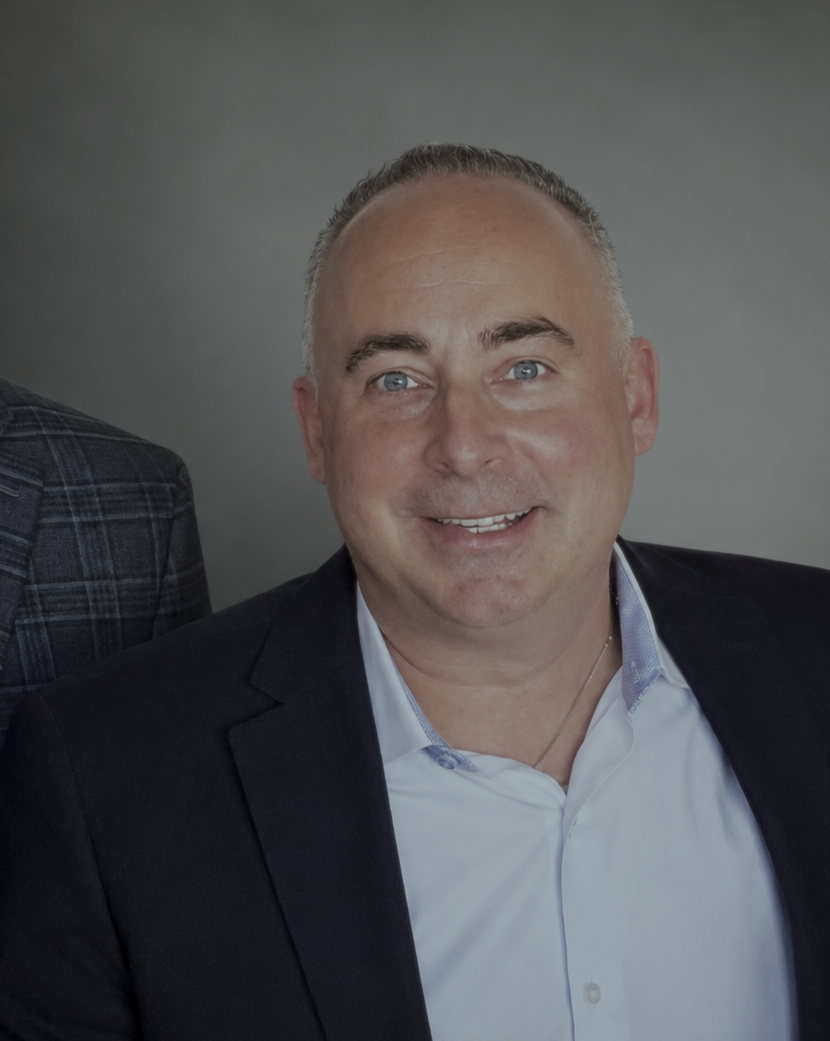
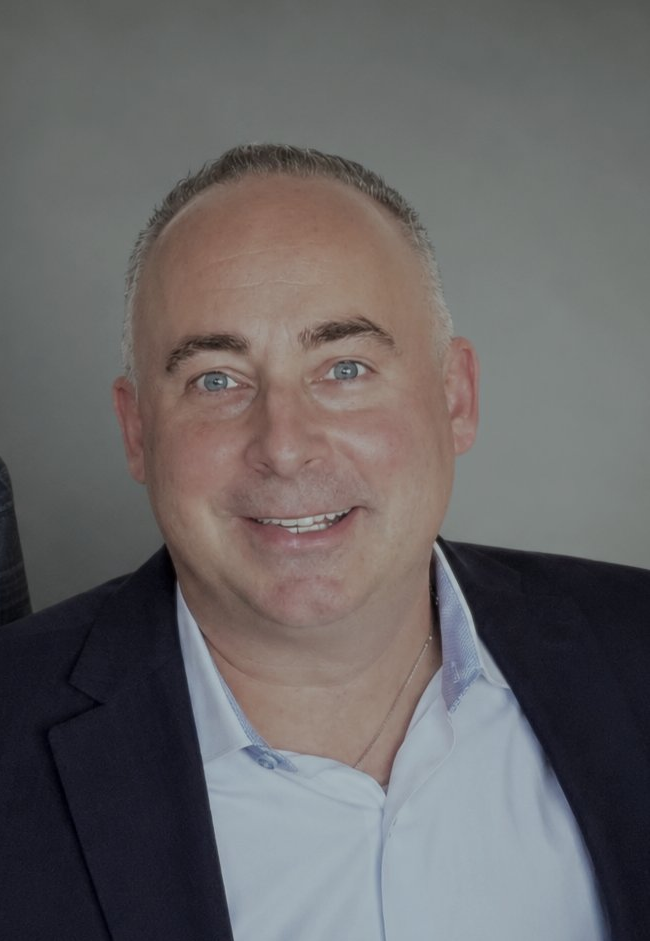
About: re-crop portrait (left 180px to remove shoulder, center Shawn naturally), enlarge container 6%, swap to object-top

diff --git a/app/about/page.tsx b/app/about/page.tsx
@@ -72,12 +72,12 @@ export default function Page() {
 
           {/* Body copy + portrait, side-by-side on desktop; stacks on mobile.
               On desktop the columns are vertically centered relative to each
-              other (items-center). The portrait container is sized smaller
-              (340×430 desktop) and the source image has been cropped 100px
-              from the bottom — so the framing is tight on Shawn's face and
-              upper torso. object-right-top anchors to the right edge and
-              crops the left side, hiding the neighboring shoulder for a
-              clean, focused headshot. */}
+              other (items-center). The portrait container is sized 6% larger
+              (360 wide max desktop, 276 mobile) and the source image has been
+              cropped on the left to remove the neighboring shoulder — so Shawn
+              sits naturally centered in the frame. object-top preserves the
+              face and crops slightly from the bottom suit area, for a tighter
+              editorial framing. */}
           <div className="mt-10 md:mt-14 grid grid-cols-1 lg:grid-cols-12 gap-10 lg:gap-14 lg:items-center">
             <div className="lg:col-span-7 order-2 lg:order-1 flex flex-col justify-center">
               <p className="text-lg md:text-xl text-text-secondary leading-relaxed">
@@ -116,14 +116,14 @@ export default function Page() {
             </div>
 
             <div className="lg:col-span-5 order-1 lg:order-2 flex justify-center lg:justify-start">
-              <div className="relative rounded-2xl overflow-hidden border border-border-default shadow-xl capizzi-rim-card w-full max-w-[260px] lg:max-w-[340px] aspect-[340/430]">
+              <div className="relative rounded-2xl overflow-hidden border border-border-default shadow-xl capizzi-rim-card w-full max-w-[276px] lg:max-w-[360px] aspect-[340/430]">
                 <Image
                   src="/images/brand/shawn_m_capizzi_2026.png"
                   alt="Shawn Capizzi"
                   fill
                   priority
-                  className="object-cover object-right-top"
-                  sizes="(max-width: 1024px) 260px, 340px"
+                  className="object-cover object-top"
+                  sizes="(max-width: 1024px) 276px, 360px"
                 />
               </div>
             </div>
